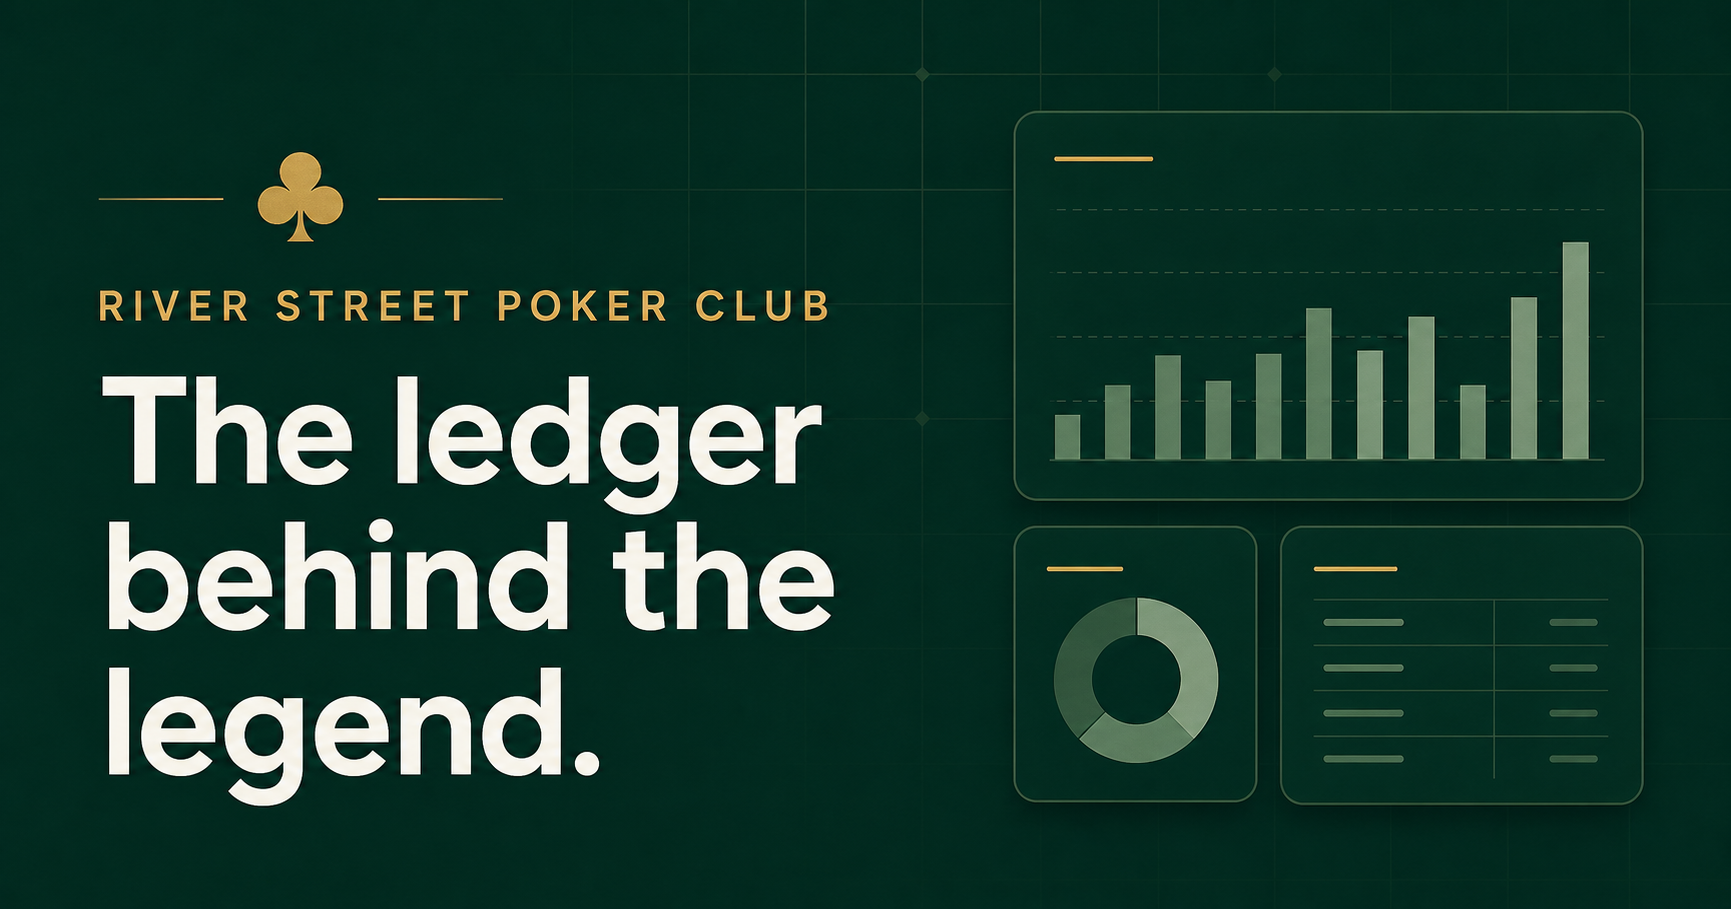
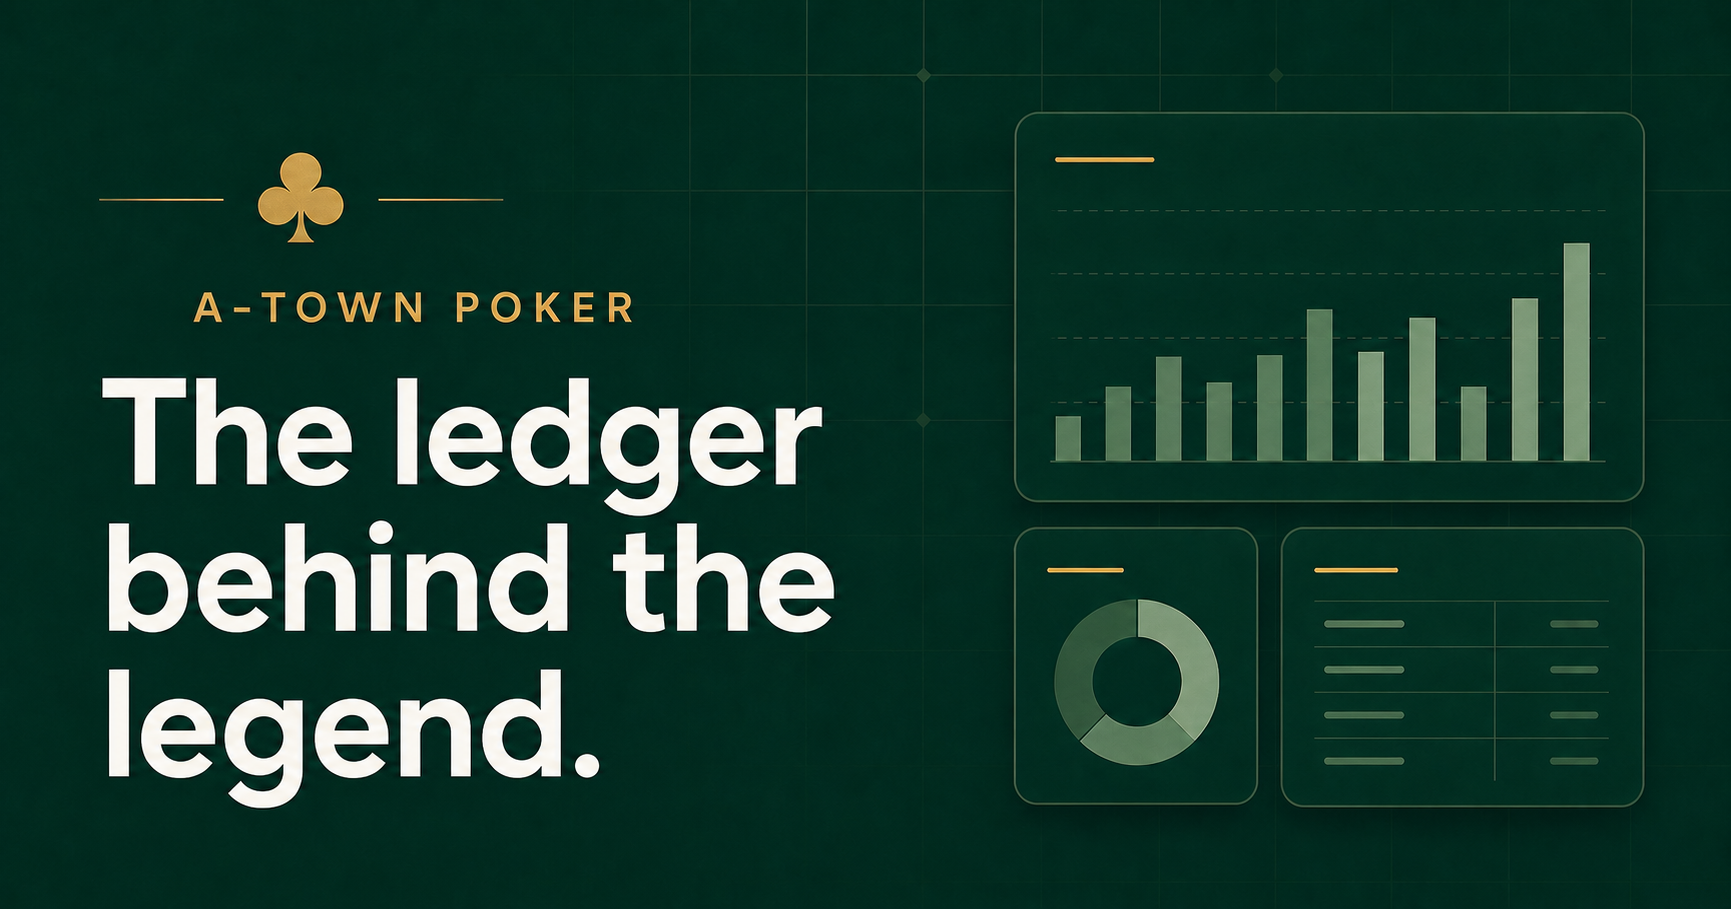
Rename site to A-Town Poker

diff --git a/app/layout.tsx b/app/layout.tsx
@@ -18,7 +18,7 @@ const geistMono = Geist_Mono({
 
 export async function generateMetadata(): Promise<Metadata> {
   const requestHeaders = await headers();
-  const host = requestHeaders.get("host") ?? "river-street-poker.pages.dev";
+  const host = requestHeaders.get("host") ?? "localhost:3000";
   const protocol = host.includes("localhost") ? "http" : "https";
   const metadataBase = new URL(`${protocol}://${host}`);
   const description = "Cash games, tournament results, player stats, and friendly rivalries—all in one place.";
@@ -26,19 +26,19 @@ export async function generateMetadata(): Promise<Metadata> {
   return {
     metadataBase,
     title: {
-      default: "River Street Poker Club",
-      template: "%s · River Street Poker",
+      default: "A-Town Poker",
+      template: "%s · A-Town Poker",
     },
     description,
     openGraph: {
       type: "website",
-      title: "River Street Poker Club",
+      title: "A-Town Poker",
       description,
-      images: [{ url: "/og.png", width: 1728, height: 909, alt: "River Street Poker Club — The ledger behind the legend." }],
+      images: [{ url: "/og.png", width: 1728, height: 909, alt: "A-Town Poker — The ledger behind the legend." }],
     },
     twitter: {
       card: "summary_large_image",
-      title: "River Street Poker Club",
+      title: "A-Town Poker",
       description,
       images: ["/og.png"],
     },
@@ -57,7 +57,7 @@ export default function RootLayout({ children }: Readonly<{ children: React.Reac
               <span className="grid size-7 place-items-center rounded-lg bg-primary text-primary-foreground">
                 <Club className="size-3.5 fill-current" aria-hidden="true" />
               </span>
-              <span className="font-semibold">River Street Poker Club</span>
+              <span className="font-semibold">A-Town Poker</span>
             </div>
             <p>Good hands. Better stories. Tracked since 2025.</p>
             <div className="flex gap-4">

diff --git a/components/site-header.tsx b/components/site-header.tsx
@@ -26,13 +26,13 @@ export function SiteHeader() {
   return (
     <header className="sticky top-0 z-50 border-b border-border/80 bg-background/90 backdrop-blur-xl">
       <div className="page-shell flex h-16 items-center justify-between gap-6">
-        <Link href="/" className="group flex items-center gap-2.5" aria-label="River Street Poker home">
+        <Link href="/" className="group flex items-center gap-2.5" aria-label="A-Town Poker home">
           <span className="grid size-9 place-items-center rounded-xl bg-primary text-primary-foreground shadow-sm transition-transform group-hover:-rotate-3">
             <Club className="size-4.5 fill-current" aria-hidden="true" />
           </span>
           <span className="leading-none">
-            <span className="block text-sm font-semibold tracking-tight">River Street</span>
-            <span className="mt-1 block text-[0.62rem] font-semibold uppercase tracking-[0.2em] text-muted-foreground">Poker Club</span>
+            <span className="block text-sm font-semibold tracking-tight">A-Town</span>
+            <span className="mt-1 block text-[0.62rem] font-semibold uppercase tracking-[0.2em] text-muted-foreground">Poker</span>
           </span>
         </Link>
 

diff --git a/app/page.tsx b/app/page.tsx
@@ -14,8 +14,8 @@ import type { CashGame, Tournament } from "@/lib/poker-types";
 import { cn } from "@/lib/utils";
 
 export const metadata: Metadata = {
-  title: "River Street Poker Club",
-  description: "Tournament finishes, cash-game ledgers, player stats, and friendly rivalries for the River Street Poker Club.",
+  title: "A-Town Poker",
+  description: "Tournament finishes, cash-game ledgers, player stats, and friendly rivalries for A-Town Poker.",
 };
 
 const tournaments = tournamentsJson as Tournament[];